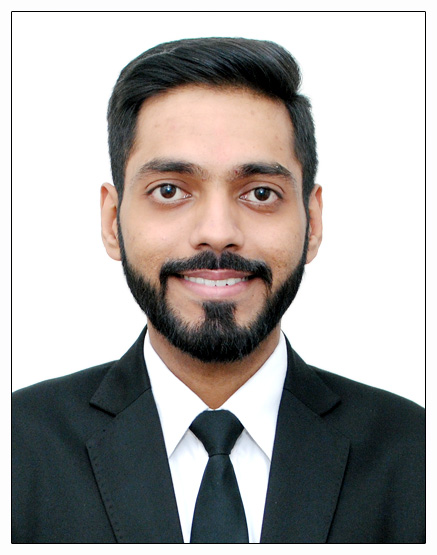
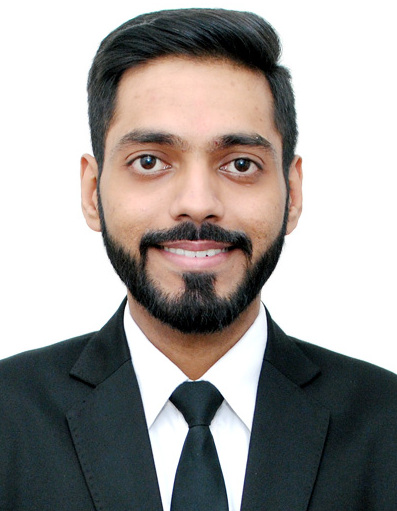
Update ProfileCard with nested picture card, social media links, and scroll margin fixes

Changed region(s): [[0.0, 0.0, 1.0, 1.0], [0.1511, 0.7926, 0.2418, 0.9393], [0.1814, 0.7045, 0.272, 0.7632]]

diff --git a/src/components/ProfileCard.jsx b/src/components/ProfileCard.jsx
@@ -3,7 +3,10 @@ import sahil from '../assets/sahil.jpg';
 function ProfileCard() {
   return (
     <div style={styles.card}>
-      <img src={sahil} alt="Sahil" style={styles.image} />
+      {/* Picture Card */}
+      <div style={styles.pictureCard}>
+        <img src={sahil} alt="Sahil" style={styles.image} />
+      </div>
 
       <div style={styles.content}>
         <h3 style={styles.name}>Sahil Basra</h3>
@@ -11,7 +14,7 @@ function ProfileCard() {
 
         <div style={styles.socials}>
           <a 
-            href="https://linkedin.com/in/sahilbasra" 
+            href="https://www.linkedin.com/in/sahilbasra7/" 
             target="_blank" 
             rel="noopener noreferrer"
             style={styles.socialLink}
@@ -22,7 +25,7 @@ function ProfileCard() {
             </svg>
           </a>
           <a 
-            href="https://github.com/sahilbasra" 
+            href="https://github.com/Sahilbasra7" 
             target="_blank" 
             rel="noopener noreferrer"
             style={styles.socialLink}
@@ -33,7 +36,7 @@ function ProfileCard() {
             </svg>
           </a>
           <a 
-            href="https://medium.com/@sahilbasra" 
+            href="https://medium.com/@basrasahil32" 
             target="_blank" 
             rel="noopener noreferrer"
             style={styles.socialLink}
@@ -66,18 +69,26 @@ const styles = {
     maxWidth: '100%',
     background: '#fff',
     borderRadius: '20px',
-    overflow: 'hidden',
+    padding: '20px',
     color: '#000',
     boxShadow: '0 4px 12px rgba(0,0,0,0.15)',
   },
+  pictureCard: {
+    background: '#f8f8f8',
+    borderRadius: '26px',
+    overflow: 'hidden',
+    marginBottom: '10px',
+    boxShadow: '0 2px 8px rgba(0,0,0,0.08)',
+  },
   image: {
     width: '100%',
-    height: '380px',
-    objectFit: 'cover',
-    borderRadius: '20px 20px 0 0',
+    height: '340px',
+    objectFit: 'contain',
+    display: 'block',
+    backgroundColor: '#f8f8f8',
   },
   content: {
-    padding: '24px',
+    padding: '0',
     textAlign: 'center',
   },
   name: {

diff --git a/src/components/Navbar.jsx b/src/components/Navbar.jsx
@@ -101,8 +101,6 @@ const [isMobile, setIsMobile] = useState(() => {
   }, []);
 
   useEffect(() => {
-    let lastScrollY = window.scrollY;
-
     const handleScroll = () => {
       const currentScroll = window.scrollY;
 
@@ -122,8 +120,6 @@ const [isMobile, setIsMobile] = useState(() => {
           setShrink(true);
         }
       }
-
-      lastScrollY = currentScroll;
     };
 
     window.addEventListener('scroll', handleScroll);

diff --git a/src/components/Contact.jsx b/src/components/Contact.jsx
@@ -62,7 +62,7 @@ function Contact() {
       padding: isMobile ? '24px 20px 40px' : '32px 40px 120px',
       maxWidth: '900px',
       minHeight: isMobile ? 'auto' : 'calc(100vh - 100px)',
-      scrollMarginTop: '100px',
+      scrollMarginTop: isMobile ? '80px' : '100px',
     },
     heading: {
       fontSize: isMobile ? '42px' : isTablet ? '60px' : '76px',

diff --git a/src/components/Thoughts.jsx b/src/components/Thoughts.jsx
@@ -42,7 +42,7 @@ function Thoughts() {
     section: {
       padding: isMobile ? '24px 20px' : '32px 40px',
       maxWidth: '900px',
-      scrollMarginTop: '120px',
+      scrollMarginTop: isMobile ? '80px' : '120px',
     },
     heading: {
       fontSize: isMobile ? '42px' : isTablet ? '60px' : '76px',

diff --git a/src/components/Hero.jsx b/src/components/Hero.jsx
@@ -11,6 +11,7 @@ function Hero() {
       paddingBottom: isMobile ? '40px' : isTablet ? '60px' : '80px',
       paddingLeft: isMobile ? '20px' : '40px',
       paddingRight: isMobile ? '20px' : '40px',
+      scrollMarginTop: isMobile ? '80px' : '100px',
     },
     container: {
       maxWidth: '1200px',

diff --git a/src/components/About.jsx b/src/components/About.jsx
@@ -9,7 +9,7 @@ function About() {
     section: {
       padding: isMobile ? '40px 20px' : '60px 40px',
       maxWidth: '900px',
-      scrollMarginTop: '120px',
+      scrollMarginTop: isMobile ? '80px' : '120px',
     },
     heading: {
       fontSize: isMobile ? '42px' : isTablet ? '60px' : '76px',

diff --git a/src/components/Projects.jsx b/src/components/Projects.jsx
@@ -32,6 +32,7 @@ function Projects() {
   const getStyles = () => ({
     section: {
       padding: isMobile ? '24px 20px' : '32px 40px',
+      scrollMarginTop: isMobile ? '80px' : '120px',
     },
     heading: {
       fontSize: isMobile ? '42px' : isTablet ? '60px' : '76px',

diff --git a/src/components/Experience.jsx b/src/components/Experience.jsx
@@ -26,6 +26,7 @@ function Experience() {
     section: {
       padding: isMobile ? '24px 20px' : '32px 40px',
       maxWidth: '900px',
+      scrollMarginTop: isMobile ? '80px' : '120px',
     },
     heading: {
       fontSize: isMobile ? '42px' : isTablet ? '60px' : '76px',

diff --git a/src/components/Skills.jsx b/src/components/Skills.jsx
@@ -17,6 +17,7 @@ function Skills() {
   const getStyles = () => ({
     section: {
       padding: isMobile ? '24px 20px' : '32px 40px',
+      scrollMarginTop: isMobile ? '80px' : '120px',
     },
     heading: {
       fontSize: isMobile ? '42px' : isTablet ? '60px' : '76px',

diff --git a/src/components/Tools.jsx b/src/components/Tools.jsx
@@ -20,6 +20,7 @@ function Tools() {
   const getStyles = () => ({
     section: {
       padding: isMobile ? '24px 20px' : '32px 40px',
+      scrollMarginTop: isMobile ? '80px' : '120px',
     },
     heading: {
       fontSize: isMobile ? '42px' : isTablet ? '60px' : '76px',
